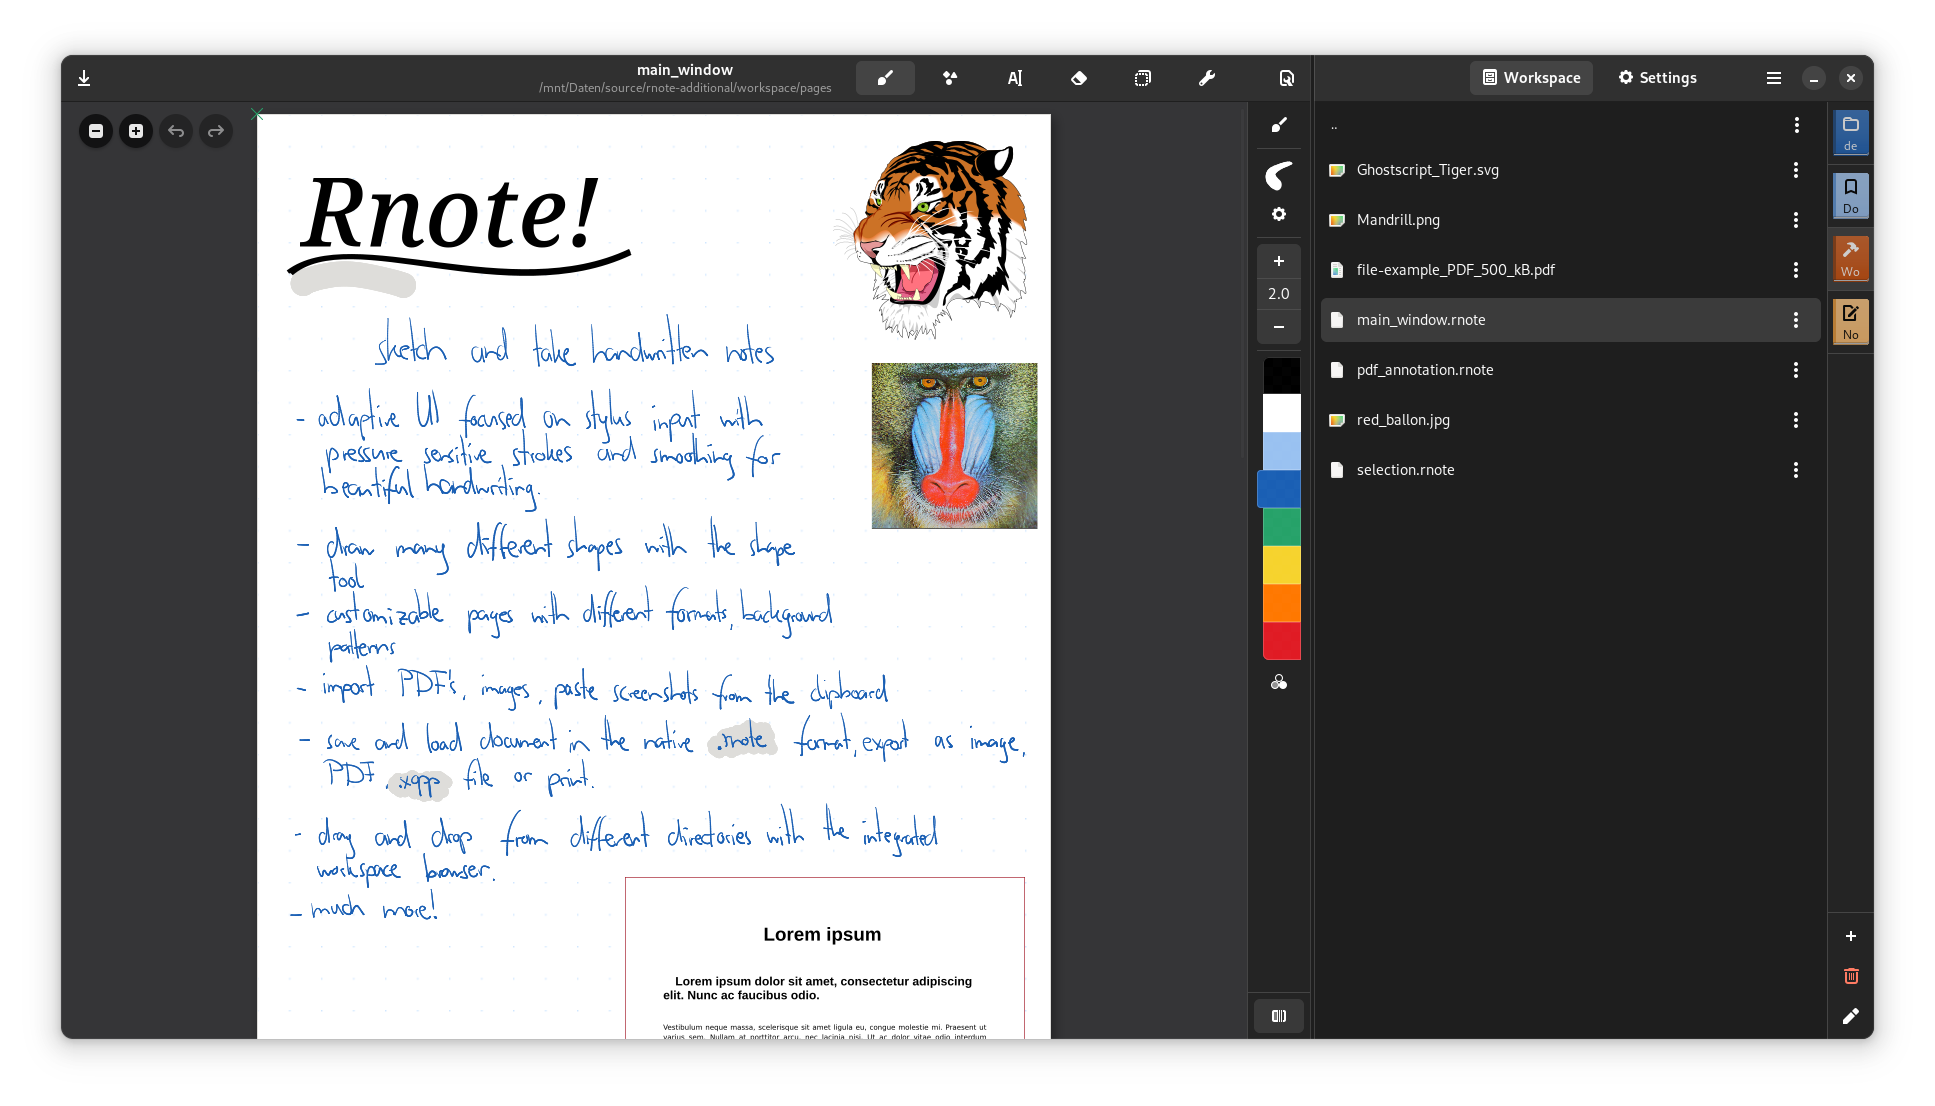
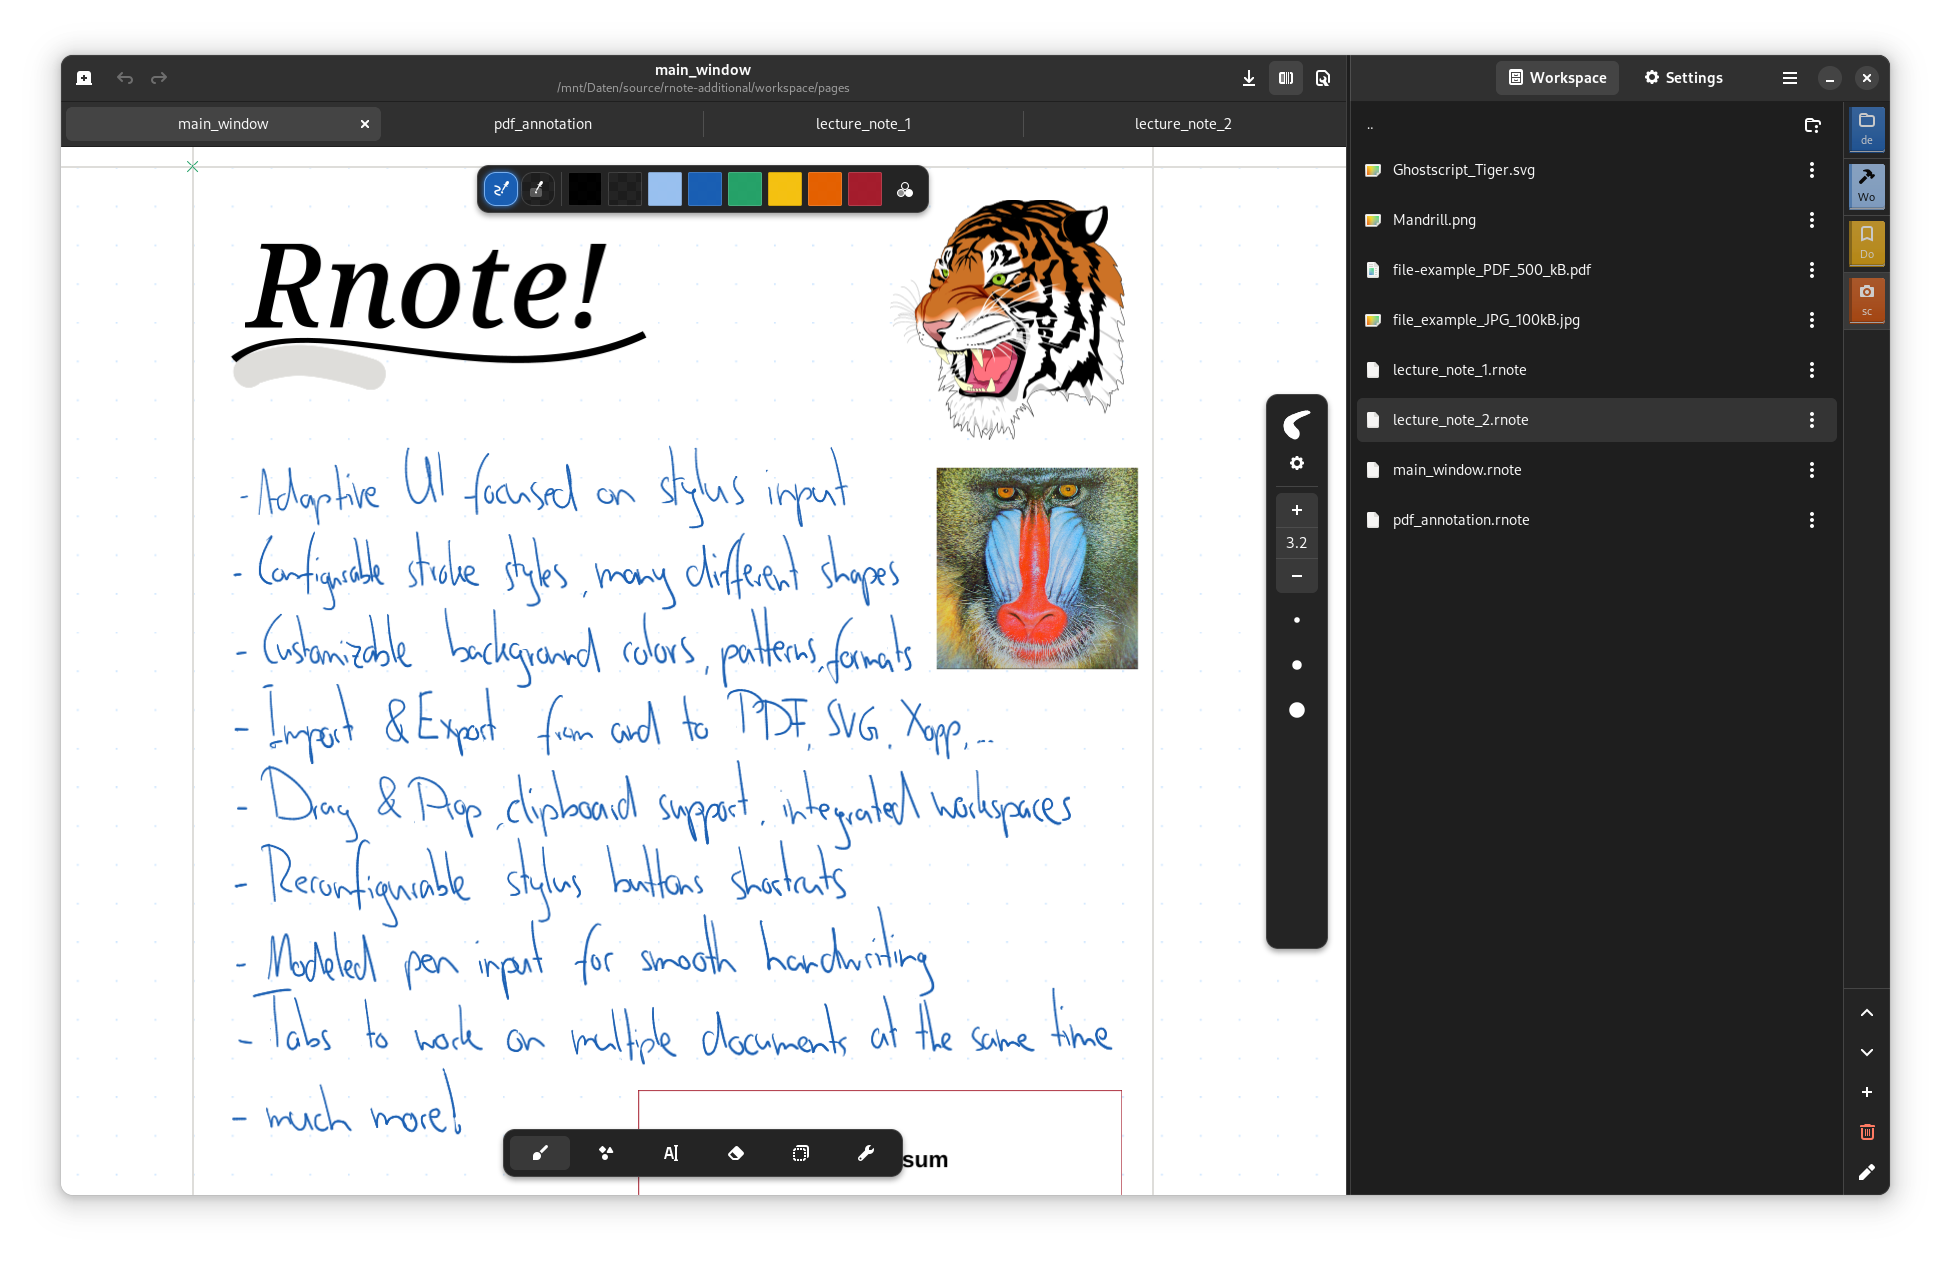
update site

diff --git a/index.html b/index.html
@@ -186,18 +186,18 @@
 <ul>
 <li>Adaptive UI focused on stylus input</li>
 <li>Pressure-sensitive stylus input with different and configurable stroke styles</li>
-<li>Draw many different shapes with the shape tool</li>
+<li>Create many different shapes with the shape tool</li>
 <li>Move, rotate, resize and modify existing content with the selection tool</li>
-<li>Different document expand layouts ( fixed pages, continuous vertical, infinite in every direction )</li>
+<li>Different document expansion layouts ( fixed pages, continuous vertical, infinite in every direction, .. )</li>
 <li>Customizable background colors, patterns, sizes</li>
 <li>Customizable page format</li>
-<li>(optional) pen sounds</li>
+<li>(Optional) pen sounds</li>
 <li>Reconfigurable stylus button shortcuts</li>
-<li>An integrated workspace browser for quick access to related media files</li>
-<li>Drag &amp; drop, clipboard support</li>
-<li>PDF, bitmap and SVG image import</li>
+<li>An integrated workspace browser for quick access to related files</li>
+<li>Drag &amp; Drop, clipboard support</li>
+<li>PDF, Bitmap and SVG image import</li>
+<li>Document, document pages and selection export to many formats including SVG, PDF, Xopp</li>
 <li>Save and load the documents in the native <code>.rnote</code> file format</li>
-<li>Document and selection export to SVG, PDF</li>
 <li>Tabs to work on multiple documents at the same time</li>
 <li>Autosave, printing</li>
 </ul>
@@ -209,10 +209,10 @@ The file format is still unstable. It might change and break compatibility betwe
 <a href='https://flathub.org/apps/details/com.github.flxzt.rnote'><img width="256" alt='Download on Flathub' src='https://flathub.org/assets/badges/flathub-badge-en.png'/></a>
 </div>
 <h1 id="screenshots">Screenshots</h1>
-<p><img src="https://rnote.flxzt.net/./screenshots/main_window_dark.png" alt="main_window_dark" />
-<img src="https://rnote.flxzt.net/./screenshots/main_window_light.png" alt="main_window_light" />
+<p><img src="https://rnote.flxzt.net/./screenshots/main_window_light.png" alt="main_window_light" />
+<img src="https://rnote.flxzt.net/./screenshots/lecture_note_1.png" alt="lecture_note_1" />
 <img src="https://rnote.flxzt.net/./screenshots/pdf_annotation.png" alt="pdf_annotation" />
-<img src="https://rnote.flxzt.net/./screenshots/selection.png" alt="selection" /></p>
+<img src="https://rnote.flxzt.net/./screenshots/lecture_note_2.png" alt="lecture_note_2" /></p>
 <h1 id="downgrading">Downgrading</h1>
 <p>Because the file format still is unstable, downgrading to a specific version might be necessary and can be done with:</p>
 <table><thead><tr><th>version</th><th>command</th></tr></thead><tbody>
